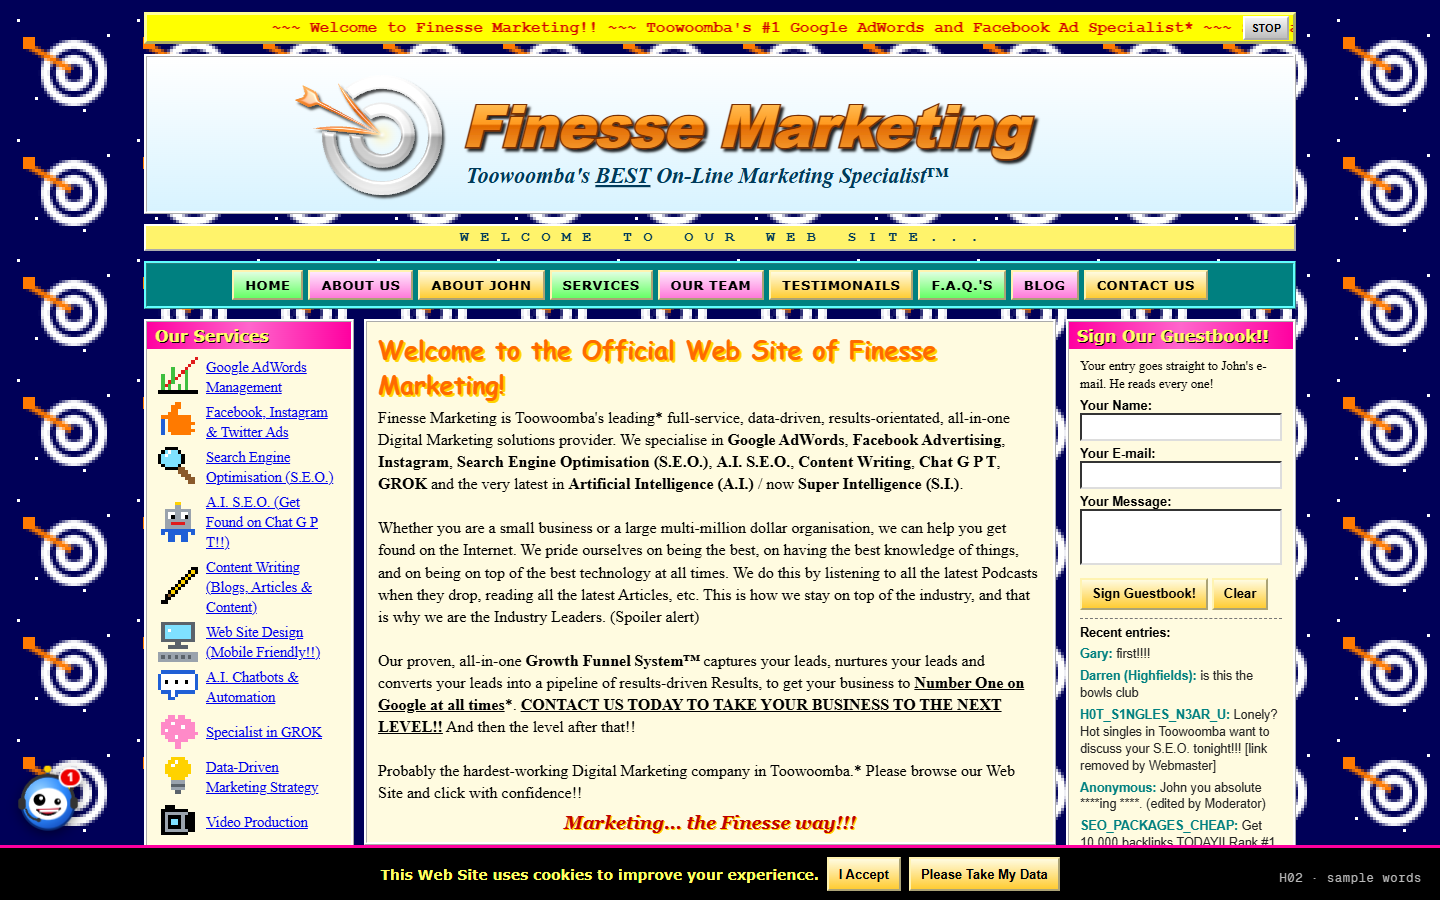
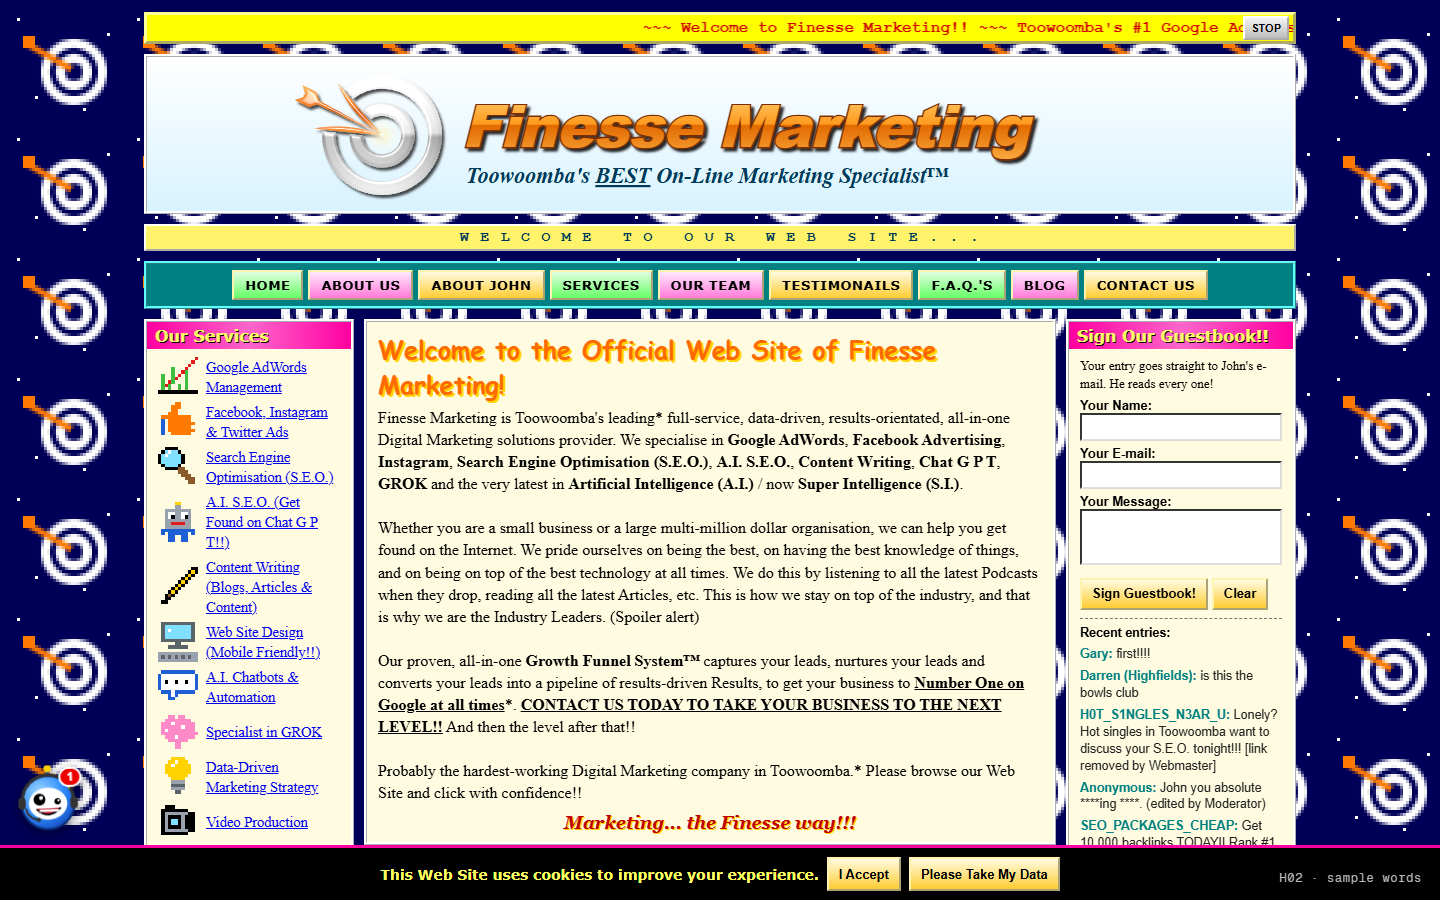
Hero ideas preview: Ninety-six round 2x (slower ticker)

diff --git a/look/website-hero/ninety-six.html b/look/website-hero/ninety-six.html
@@ -41,7 +41,7 @@
 .skip96:focus{width:auto;height:auto;padding:8px 12px;clip-path:none}
 .w{max-width:1180px;margin:0 auto;padding:12px 14px 90px;display:grid;grid-template-columns:210px minmax(0,1fr) 230px;gap:10px}
 .mq{position:relative;padding-right:70px!important;grid-column:1/-1;background:#ffff00;color:#d10000;font:bold 16px "Courier New",monospace;white-space:nowrap;overflow:hidden;padding:4px 0;border:3px outset #ffff99}
-.mq span{display:inline-block;padding-left:100%;animation:mq 16s linear infinite}
+.mq span{display:inline-block;padding-left:100%;animation:mq 25s linear infinite}
 @keyframes mq{to{transform:translateX(-100%)}}
 .mq.paused span{animation-play-state:paused}
 .mqstop{position:absolute;right:4px;top:50%;transform:translateY(-50%);font:bold 11px Arial;background:linear-gradient(#f4f4f4,#bdbdbd);border:2px outset #fff;padding:2px 6px;cursor:pointer;color:#000;min-height:24px}
